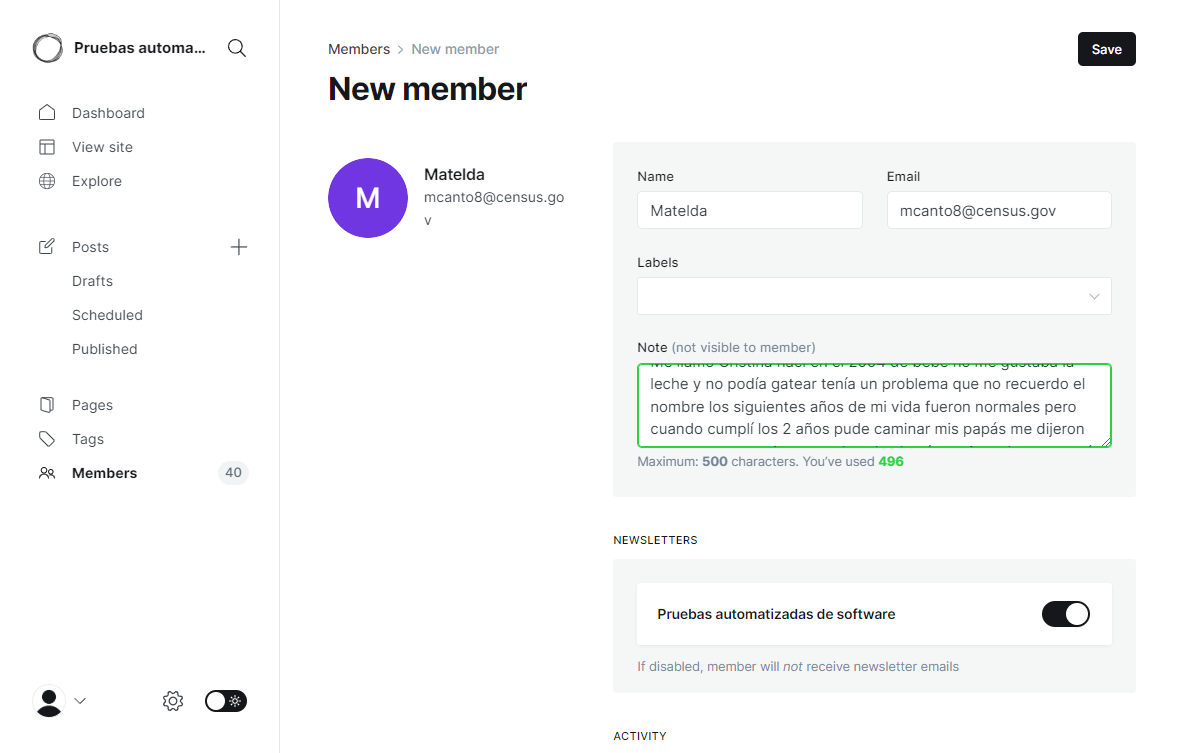
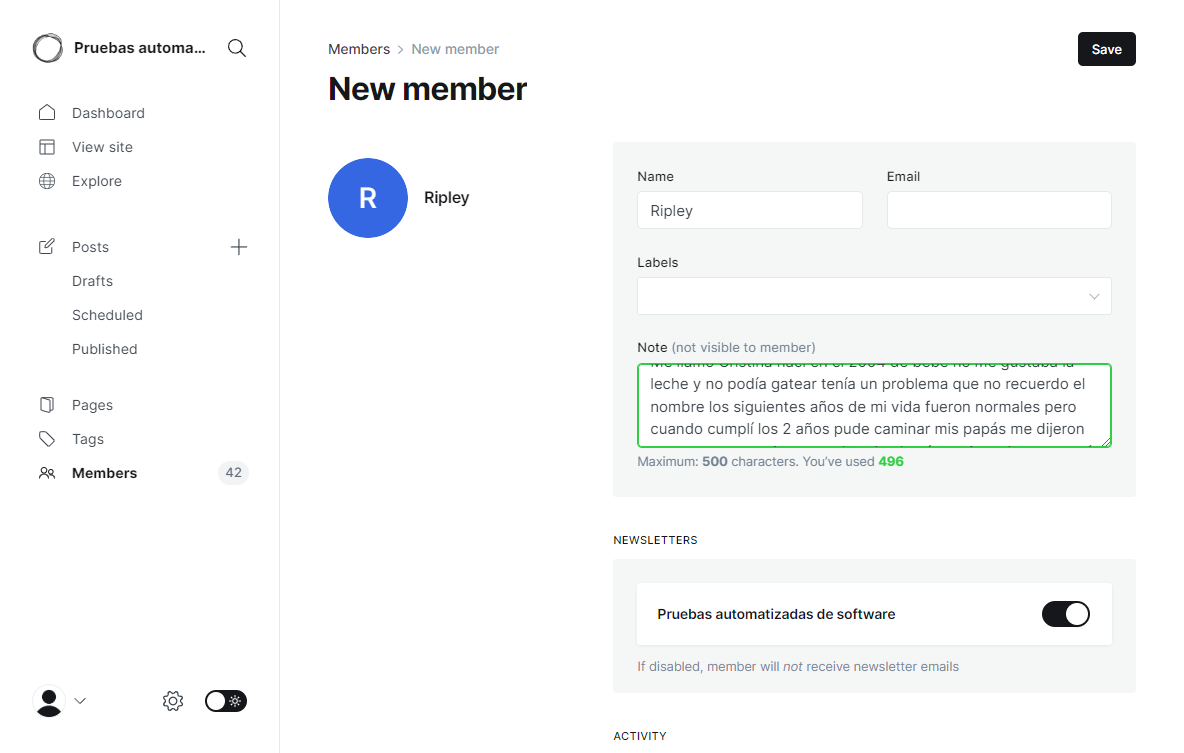
Feat(EP-002-DP): No debe agregar miembro con correo vacío

Changed region(s): [[0.25, 0.2138, 0.4688, 0.336], [0.75, 0.2749, 0.9062, 0.3054], [0.5625, 0.2749, 0.5938, 0.3054]]

diff --git a/kraken/features/web/page_objects/MembersPage.js b/kraken/features/web/page_objects/MembersPage.js
@@ -112,19 +112,19 @@ class MembersPage {
         this.testData = await response.json();
     }
 
-    async crearMemebers() {
+    async crearMemebers(email = '') {
         
         //lets grab a random index
         const randomIndex = Math.floor(Math.random() * this.testData.length);
         const name = this.testData[randomIndex].first_name;
-        const email = this.testData[randomIndex].email;
+        const emailToUse = email === "" ? "" : this.testData[randomIndex].email;
         const nota = this.testData[randomIndex].nota;
 
         // Imprimir los valores en la consola
         try {
             // Esperar que cada acción termine antes de pasar a la siguiente
             await this.enterName(name); // Espera a que se complete antes de continuar
-            await this.enterEmail(email); // Espera a que se complete antes de continuar
+            await this.enterEmail(emailToUse); // Espera a que se complete antes de continuar
             await this.enterMemberNote(nota); // Espera a que se complete antes de continuar
         } catch (error) {
             console.error("Error en la creación de miembro:", error);
@@ -143,7 +143,7 @@ class MembersPage {
             await element.waitForDisplayed(15000);
             await element.click();
             await element.setValue(name);
-            await this.driver.pause(10000); 
+            await this.driver.pause(2000); 
             console.log("Nombre introducido correctamente");
         } catch (error) {
             console.error("Error al introducir el nombre:", error);
@@ -173,12 +173,11 @@ class MembersPage {
             
             await element.waitForDisplayed(15000);
             await element.click();
-            await this.driver.pause(4000); 
+            await this.driver.pause(2000); 
             await element.setValue(note);
             const value = await element.getValue();
             await this.driver.pause(2000); 
 
-            await this.driver.pause(6000); 
             console.log("Valor en el textarea después de setValue:", value);
     
             if (value !== note) {
@@ -191,6 +190,8 @@ class MembersPage {
             throw error;
         }
     }
+
+    
     
 }
 module.exports = MembersPage;

diff --git a/kraken/features/web/step_definitions/membersSteps.js b/kraken/features/web/step_definitions/membersSteps.js
@@ -125,9 +125,17 @@ Then('I see the Delete member button', async function() {
 
 //POOL DE DATOS
 
-When('I fetch data from Mockaroo API {string}', async function (apiUrl) {
+When('I fetch data from Mockaroo API {string} ', async function (apiUrl) {
     
     const membersPage = new MembersPage(this.driver);
     await membersPage.getTestDataSet(apiUrl, 'GET');
     await membersPage.crearMemebers();  
 });
+
+When('I fetch data from Mockaroo API {string} not email', async function (apiUrl) {
+    
+    const membersPage = new MembersPage(this.driver);
+    await membersPage.getTestDataSet(apiUrl, 'GET');
+    await membersPage.crearMemebers('');  
+});
+
